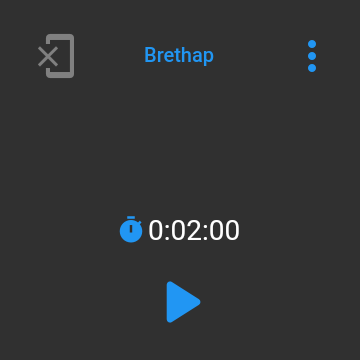
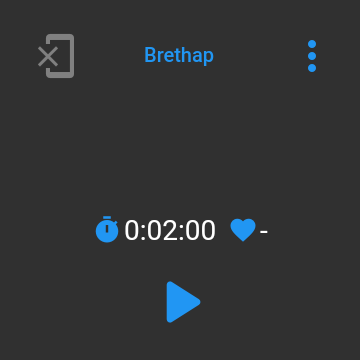
Google play app update rejected

Changed region(s): [[0.2444, 0.5806, 0.7333, 0.6722]]

diff --git a/lib/main.dart b/lib/main.dart
@@ -379,7 +379,7 @@ class _HomeWidgetState extends State<HomeWidget> {
           } else {
             ScaffoldMessenger.of(context).showSnackBar(SnackBar(
               backgroundColor: Theme.of(context).canvasColor,
-              content: const Text("Not paired to Brethap phone app\n",
+              content: const Text("Not paired to Brethap phone app\n\n",
                   style: TextStyle(
                     color: Colors.white,
                   )),
@@ -476,11 +476,8 @@ class _HomeWidgetState extends State<HomeWidget> {
   }
 
   Widget _getCenterWidgets(double leftPad, double rightPad) {
-    Widget heart = const SizedBox.shrink(),
-        spacer = const SizedBox.shrink(),
-        bpm = const Text("");
     const double iconSize = 15.0;
-
+    Text bpm = const Text("-");
     if (_isRunning && _hasHeartRate) {
       if (_heartrates != null && _heartrates!.isNotEmpty) {
         int heartrate = _heartrates!.last.toInt();
@@ -488,9 +485,6 @@ class _HomeWidgetState extends State<HomeWidget> {
           "$heartrate",
         );
       }
-      heart = Icon(Icons.favorite,
-          size: iconSize, color: Theme.of(context).primaryColor);
-      spacer = const SizedBox(width: 5);
     }
     return Row(
       mainAxisAlignment: MainAxisAlignment.center,
@@ -504,8 +498,12 @@ class _HomeWidgetState extends State<HomeWidget> {
         Text(
           _timer,
         ),
-        spacer,
-        heart,
+        const SizedBox(width: 5),
+        Icon(
+          Icons.favorite,
+          size: iconSize,
+          color: Theme.of(context).primaryColor,
+        ),
         const SizedBox(width: 1),
         bpm,
       ],
